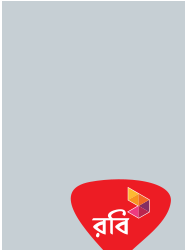
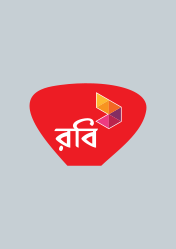
adding national Graphs

diff --git a/ar/new business unit/axiata'14_02_digital service.html b/ar/new business unit/axiata'14_02_digital service.html
@@ -113,7 +113,7 @@
 						In the exploding digital ecosystem, Axiata’s participation in Digital Services anchors on the following:<br/><br/>
 						•&nbsp;&nbsp;&nbsp;Revenue uplift from Digital and OTT adjacencies to increase customer engagement within core mobile &nbsp;&nbsp;&nbsp;&nbsp;&nbsp;business<br/>
 						•&nbsp;&nbsp;Supplement core mobile business with value creation opportunities by unlocking assets in its core &nbsp;&nbsp;&nbsp;&nbsp;&nbsp;&nbsp;business <br/>
-						•&nbsp;&nbsp;&nbsp;&nbsp;Transform the core to an OTT/IOT-ready business <br/>
+						•&nbsp;&nbsp;&nbsp;&nbsp;Transform the core to an OTT/IoT-ready business <br/>
 						•&nbsp;&nbsp;&nbsp;&nbsp;Build new skills and capabilities in the digital space across Axiata
 						<br/><br/>
 						To drive these strategic initiatives, Axiata Digital Services will focus on measured investments in four business lines; Digital Advertising, Digital Commerce, Digital Money and Digital Entertainment. 
@@ -124,7 +124,7 @@
 						<br/><br/>
 						Similarly, in early 2015, Axiata launched its own Group-wide Application Programme Interface API Platform - Mobile Internet Fulfilment Exchange (MIFE). The radical open source digital enabler will accelerate engagement and partnership in Axiata’s digital strategy. 
 						<br/><br/>
-						Throughout 2014 and early 2015, Axiata Digital Services has made significant inroads in it digital services strategy. Some of the key achievements across Axiata Digital Services business lines in its operating countries are as follows:
+						Throughout 2014 and early 2015, Axiata Digital Services has made significant inroads in it digital services strategy. Some of the key achievements across Axiata Digital Services business lines in its OpCos are as follows:
 						<br/><br/><br/><br/>
 						<div class="product">
 							<div class="left">
@@ -136,7 +136,7 @@
 								<br/><br/>
 								<b>11street.my</b> – Building on the successful partnership with SK Planet in Indonesia, Celcom entered into an agreement with SK Planet to form a joint venture to build an e-commerce business in Malaysia. 11street is expected to launch an optimised e-commerce platform by the second half of 2015.
 								<br/><br/>
-								<b>wow.lk</b>, a digital commerce site in Sri Lanka was launched in 2012. The number of registered customers of wow.lk reached 250,000 last year. Wow.lk has expanded into an online classified business and launched HitAd.lk through a strategic partnership with Sri Lanka’s largest print classified business.
+								wow.lk, a digital commerce site in Sri Lanka was launched in 2012. The number of registered customers of wow.lk reached 250,000 last year. Wow.lk has expanded into an online classified business and launched HitAd.lk through a strategic partnership with Sri Lanka’s largest print classified business.
 							</div>
 						</div>
 						
@@ -162,7 +162,7 @@
 							<div class="right">
 								<b>eZcash</b>, launched in 2013 is an international awarding winning mobile money service reaching over 70% of all mobile subscribers in Sri Lanka and enabling more than 20,000 retail points. In 2014, Dialog, Etisalat Sri Lanka and Hutch entered into a partnership and has the distinction of being the first Mobile Money system in the world to be end-to-end inter-operable across multiple service providers. . Dialog also launched Near Field Communications (NFC) transport card in the western province and powered Sri Lanka’s first street parking meters with Tenaga Car Parks using NFC technology. 
 								<br/><br/>
-								In early 2015, eZcash won the coveted <b>2015 Global Mobile Awards</b> – The NFC & Mobile Money Award. Work is now in progress to launch the mobile money service in other Axiata markets.
+								In early 2015, eZcash won the coveted 2015 Global Mobile Awards – The NFC & Mobile Money Award. Work is now in progress to launch the mobile money service in other Axiata markets.
 								<br/><br/>
 								<b>XL Tunai</b>, is a Top D-Money offering in Indonesia with more than 1 million registered users. 2014 saw XL Tunai expand its offerings by new payroll initiatives The service was also awarded The Best Mobile Digital Service by Operator at the Indonesia Cellular Show 2014. With XL Tunai and other digital services offerings, XL received the recognition as the Frost & Sullivan Indonesia Mobile Digital Service Provider of the Year.
 							</div>
@@ -174,7 +174,7 @@
 								<br/><br/><img src="../assets/img/chapter7/section4/product4.png" />
 							</div>
 							<div class="right">
-								<b>Gudang Aplikasi</b>, an app store by XL in Indonesia has1.3 million users and over 20,000 apps on the store.
+								<b>Gudang Aplikasi</b>, an app store by XL in Indonesia has 1.3 million users and over 20,000 apps on the store.
 								<br/><br/>
 								<b>Guru.lk.</b>, Dialog partnered with Headstart Limited to focus on e-leaning business in Sri Lanka, specifically on content delivery. The website, Guru.lk was launched in 2014.
 							</div>

diff --git a/ar/board/21.html b/ar/board/21.html
@@ -35,7 +35,7 @@
 
 				Shazalli is currently director of several companies which include Celcom Axiata Berhad; Celcom Retail Sdn Bhd; Celcom Mobile Sdn Bhd, Celcom Networks Sdn Bhd, Celcom Resources Berhad, TuneTalk Sdn Bhd and Celcom Planet Sdn Bhd. He also holds the portfolio as CEO and Director of Escape Axiata Sdn Bhd, a wholly owned subsidiary of Celcom Axiata Berhad. Additionally, he is also a board member of Axiata Digital Services Sdn Bhd, the Kuala Lumpur Business Club and PR1MA Corporation, Malaysia and recently appointed to the board of Malaysian Airlines Systems Berhad as a Non-Executive Director.<br/><br/>
 
-				Shazalli has been recognised for his leadership, receiving various awards including Masterclass CEO of the Year Award and CEO of the Year by PC.Com Reader’s Choice Awards, and the Business Leadership Award. In 2013, Dato’ Sri Shazalli Ramly was also conferred the ‘ICT Personality of the Year’ at the PIKOM Leadership Awards Night.
+				Shazalli has been recognised for his leadership, receiving various awards including Masterclass CEO of the Year Award and CEO of the Year by PC.Com Reader’s Choice Awards, and the Business Leadership Award. In 2013, Dato’ Sri Shazalli Ramly was also conferred the ‘ICT Personality of the Year’ at the PIKOM Leadership Awards.
 
 			</p>
 		</div>

diff --git a/ar/board/26.html b/ar/board/26.html
@@ -32,7 +32,7 @@
 
 				Karen joined M1 as Chief Financial Officer in August 1995. She was a key member of the senior management team responsible for the planning, development and launch of M1’s commercial operations. Prior to joining M1, Karen held various senior financial positions in large public listed companies, including Singapore Press Holdings Limited and City Developments Limited. She has over 30 years of experience in general and financial management.<br/><br/>
 
-				Karen is a Fellow of the Association of Chartered Certified Accountants (UK) and holds a Master of Business Administration degree in Investment and Finance (Distinction) from the University of Hull in the UK.
+				Karen is a Fellow of the Association of Chartered Certified Accountants (UK) and holds a Master of Business Administration degree in Investment and Finance (Distinction) from the University of Hull, UK.
 
 
 

diff --git a/sr/assets/css/xl.css b/sr/assets/css/xl.css
@@ -21,9 +21,9 @@ html,body
 	width:960px;
 	margin-top: 90px !important;
 	background-color: #c4ced4;
-	background-image: url('../img/national/2.png');
+	background-image: url('../img/graph_xl_nums.png');
 	background-repeat: no-repeat;
-	background-position: top left;
+	background-position: 0 -74px;
 	padding-bottom: 90px;
 }
 
@@ -163,8 +163,8 @@ canvas.triangleRightBlue {
 	background-color: #ffffff;
 	margin-top: 0;
 	width:960px;
-	background-image: url('../img/national/2back.png');
-    background-position:   top center;
+	/*background-image: url('../img/national/2back.png');*/
+    background-position: 0 -74px;
 	background-repeat: no-repeat;
 	margin:0 auto;
 	overflow:hidden;
@@ -876,7 +876,7 @@ canvas.triangleRightBlue {
 	font-size: 16px;
 	text-align: justify;
 	color:#4d4d4f;
-	padding-top: 550px;
+	padding-top: 50px;
 	margin-left: 50px;
 }
 .section2 .full b

diff --git a/sr/assets/css/smart.css b/sr/assets/css/smart.css
@@ -21,9 +21,9 @@ html,body
 	width:960px;
 	margin-top: 90px !important;
 	background-color: #c4ced4;
-	background-image: url('../img/national/4.png');
+	background-image: url('../img/graph_smart_nums.png');
 	background-repeat: no-repeat;
-	background-position: top left;
+    background-position: 0 -74px;
 	padding-bottom: 90px;
 }
 
@@ -163,7 +163,7 @@ canvas.triangleRightBlue {
 	background-color: #ffffff;
 	margin-top: 0;
 	width:960px;
-	background-image: url('../img/national/4back.png');
+	/*background-image: url('../img/national/4back.png');*/
     background-position:   top center;
 	background-repeat: no-repeat;
 	margin:0 auto;
@@ -776,7 +776,7 @@ canvas.triangleRightBlue {
 	font-size: 16px;
 	text-align: justify;
 	color:#4d4d4f;
-	padding-top: 550px;
+	padding-top: 50px;
 	margin-left: 50px;
 }
 .section2 .full b

diff --git a/sr/assets/css/celcom.css b/sr/assets/css/celcom.css
@@ -21,9 +21,9 @@ html,body
 	width:960px;
 	margin-top: 90px !important;
 	background-color: #c4ced4;
-	background-image: url('../img/national/1.png');
+    background-image: url('../img/graph_celcom_nums.png');
 	background-repeat: no-repeat;
-	background-position: top left;
+	background-position: 0 -74px;
 	padding-bottom: 90px;
 }
 
@@ -164,7 +164,7 @@ canvas.triangleRightBlue {
 	background-color: #ffffff;
 	margin-top: 0;
 	width:960px;
-	background-image: url('../img/national/back.png');
+	/*background-image: url('../img/national/back.png');*/
     background-position:   top center;
 	background-repeat: no-repeat;
 	margin:0 auto;
@@ -877,7 +877,7 @@ canvas.triangleRightBlue {
 	font-size: 16px;
 	text-align: justify;
 	color:#4d4d4f;
-	padding-top: 550px;
+	padding-top: 50px;
 	margin-left: 50px;
 }
 .section2 .full b

diff --git a/sr/assets/css/dialog.css b/sr/assets/css/dialog.css
@@ -21,9 +21,9 @@ html,body
 	width:960px;
 	margin-top: 90px !important;
 	background-color: #c4ced4;
-	background-image: url('../img/national/5.png');
+	background-image: url('../img/graph_dialog_nums.png');
 	background-repeat: no-repeat;
-	background-position: top left;
+	background-position: 0 -74px;
 	padding-bottom: 90px;
 }
 
@@ -163,7 +163,7 @@ canvas.triangleRightBlue {
 	background-color: #ffffff;
 	margin-top: 0;
 	width:960px;
-	background-image: url('../img/national/5back.png');
+	/*background-image: url('../img/national/5back.png');*/
     background-position:   top center;
 	background-repeat: no-repeat;
 	margin:0 auto;
@@ -776,7 +776,7 @@ canvas.triangleRightBlue {
 	font-size: 16px;
 	text-align: justify;
 	color:#4d4d4f;
-	padding-top: 550px;
+	padding-top: 50px;
 	margin-left: 50px;
 }
 .section2 .full b

diff --git a/sr/assets/css/robi.css b/sr/assets/css/robi.css
@@ -21,9 +21,9 @@ html,body
 	width:960px;
 	margin-top: 90px !important;
 	background-color: #c4ced4;
-	background-image: url('../img/national/3.png');
+	background-image: url('../img/graph_robi_nums.png');
 	background-repeat: no-repeat;
-	background-position: top left;
+	background-position: 0 -74px;
 	padding-bottom: 90px;
 }
 
@@ -163,7 +163,7 @@ canvas.triangleRightBlue {
 	background-color: #ffffff;
 	margin-top: 0;
 	width:960px;
-	background-image: url('../img/national/3back.png');
+	/*background-image: url('../img/national/3back.png');*/
     background-position:   top center;
 	background-repeat: no-repeat;
 	margin:0 auto;
@@ -776,7 +776,7 @@ canvas.triangleRightBlue {
 	font-size: 16px;
 	text-align: justify;
 	color:#4d4d4f;
-	padding-top: 550px;
+	padding-top: 50px;
 	margin-left: 50px;
 }
 .section2 .full b

diff --git a/sr/National_Contribution/celcom.html b/sr/National_Contribution/celcom.html
@@ -106,8 +106,12 @@
 				
 			</div>
 			<br/>
-			<div class="section2">
-				
+			<div class="section2" >
+				<div style="  margin-left: 50px;"> 
+                    <img src="../assets/img/graph_celcom_pie.png"/>
+<!--                    <img src="../assets/img/graph_celcom_nums.png"/>-->
+                </div>
+<!--
 				<div id="bar1_1" class="bar orange"></div>
 				<div id="bar1_2" class="bar green"></div>
 				<div id="bar1_3" class="bar red"></div>
@@ -178,6 +182,7 @@
 				<div id="bar14_2" class="bar green"></div>
 				<div id="bar14_3" class="bar red"></div>
 				<div id="bar14_4" class="bar blue"></div>
+-->
 
 				<div class="full">
 					<h1>Our Economic Contribution</h1>

diff --git a/sr/National_Contribution/dialog.html b/sr/National_Contribution/dialog.html
@@ -122,7 +122,11 @@
 			</div>
 			<br/>
 			<div class="section2">
-				
+				<div style="  margin-left: 50px;"> 
+                    <img src="../assets/img/graph_dialog_pie.png"/>
+<!--                    <img src="../assets/img/graph_dialog_nums.png"/>-->
+                </div>
+<!--
 				<div id="bar1_1" class="bar orange"></div>
 				<div id="bar1_2" class="bar green"></div>
 				<div id="bar1_3" class="bar red"></div>
@@ -193,6 +197,7 @@
 				<div id="bar14_2" class="bar green"></div>
 				<div id="bar14_3" class="bar red"></div>
 				<div id="bar14_4" class="bar blue"></div>
+-->
 
 				<div class="full">
 					<h1>Our Social Contribution</h1>

diff --git a/sr/National_Contribution/smart.html b/sr/National_Contribution/smart.html
@@ -115,7 +115,11 @@
 			</div>
 			<br/>
 			<div class="section2">
-				
+				<div style="  margin-left: 50px;"> 
+                    <img src="../assets/img/graph_smart_pie.png"/>
+<!--                    <img src="../assets/img/graph_smart_nums.png"/>-->
+                </div>
+<!--
 				<div id="bar1_1" class="bar orange"></div>
 				<div id="bar1_2" class="bar green"></div>
 				<div id="bar1_3" class="bar red"></div>
@@ -186,6 +190,7 @@
 				<div id="bar14_2" class="bar green"></div>
 				<div id="bar14_3" class="bar red"></div>
 				<div id="bar14_4" class="bar blue"></div>
+-->
 
 				<div class="full">
 					<h1>Our Social Contribution</h1>

diff --git a/sr/National_Contribution/robi.html b/sr/National_Contribution/robi.html
@@ -118,7 +118,11 @@
 			</div>
 			<br/>
 			<div class="section2">
-				
+				<div style="  margin-left: 50px;"> 
+                    <img src="../assets/img/graph_robi_pie.png"/>
+<!--                    <img src="../assets/img/graph_robi_nums.png"/>-->
+                </div>
+<!--
 				<div id="bar1_1" class="bar orange"></div>
 				<div id="bar1_2" class="bar green"></div>
 				<div id="bar1_3" class="bar red"></div>
@@ -189,6 +193,7 @@
 				<div id="bar14_2" class="bar green"></div>
 				<div id="bar14_3" class="bar red"></div>
 				<div id="bar14_4" class="bar blue"></div>
+-->
 
 				<div class="full">
 					<h1>Our Social Contribution</h1>
